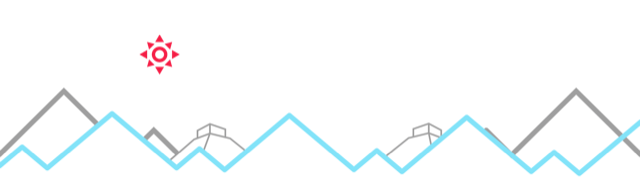
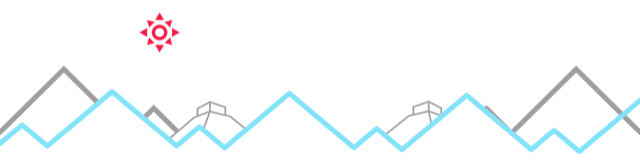
Renamed css folder to style; removed top space from mountain scene.

Changed region(s): [[0.0, 0.3916, 1.0, 0.9337], [0.2188, 0.0904, 0.2812, 0.3916]]

diff --git a/src/style/homeWelcomeScreen.scss b/src/style/homeWelcomeScreen.scss
@@ -6,27 +6,28 @@
   flex-direction: column;
   justify-content: center;
   align-items: center;
-  //   background-image: url("../images/Alacran_MountainScene-light-mode.png");
-  //   background-repeat: no-repeat;
-  //   background-size: 100%;
-  //   background-position: center center;
+    background-image: url("../images/Alacran_MountainScene-light-mode.png");
+    background-repeat: no-repeat;
+    background-size: 100%;
+    background-position: center center;
 
   .homeLogo {
     opacity: 0;
-    animation: fadeInAndDrop 1s ease-in both;
-    animation-delay: 1s;
+    animation: fadeInAndDrop 0.75s ease-in both;
+    animation-delay: 0.75s;
   }
 
   h1 {
     opacity: 0;
-    animation: fadeInAndDrop 1s ease-in both;
-    animation-delay: 2s;
+    animation: fadeInAndDrop 0.75s ease-in both;
+    animation-delay: 1.5s;
+    font-size: 5.5rem;
   }
 
   h3 {
     opacity: 0;
-    animation: fadeIn 1.5s ease-in both;
-    animation-delay: 3s;
+    animation: fadeIn 1.125s ease-in both;
+    animation-delay: 2.25s;
     letter-spacing: 0.2rem;
   }
 
@@ -35,7 +36,7 @@
     @extend .primaryButton;
     opacity: 0;
     animation: flashButton 2s ease-in both;
-    animation-delay: 4.5s;
+    animation-delay: 3.375s;
     animation-iteration-count: infinite;
   }
 }
@@ -71,5 +72,13 @@
   }
   100% {
     opacity: 0;
+  }
+}
+
+@media only screen and (max-width: 480px) {
+  .homeWelcomeScreenContainer {
+    h1 {
+      font-size: 3.0rem;
+    }
   }
 }

diff --git a/src/pages/index.js b/src/pages/index.js
@@ -4,7 +4,7 @@ import { StaticImage } from "gatsby-plugin-image"
 import Layout from "../components/layout"
 import Seo from "../components/seo"
 
-import "../css/global.scss"
+import "../style/global.scss"
 import HomeWelcomeScreen from "../components/homeWelcomeScreen"
 
 const IndexPage = () => (

diff --git a/src/components/homeWelcomeScreen.js b/src/components/homeWelcomeScreen.js
@@ -1,7 +1,7 @@
 import React from "react"
 import { StaticImage } from "gatsby-plugin-image"
 
-import "../css/homeWelcomeScreen.scss"
+import "../style/homeWelcomeScreen.scss"
 
 class HomeWelcomeScreen extends React.Component {
   handleClick() {

diff --git a/src/style/common.scss b/src/style/common.scss
@@ -1,8 +1,4 @@
-$techie-blue-color: #0fc7f3;
-$primary-blue-color: #0678bf;
-$salmon-color: #fa8072;
-$light-gray-color: #f2f2f2;
-$dark-gray-color: #3f3f40;
+@import "colors.scss";
 
 // Text And Image Box
 .textAndImageBox {

diff --git a/src/style/colors.scss b/src/style/colors.scss
@@ -1,0 +1,5 @@
+$techie-blue-color: #0fc7f3;
+$primary-blue-color: #0678bf;
+$salmon-color: #fa8072;
+$light-gray-color: #f2f2f2;
+$dark-gray-color: #3f3f40;

diff --git a/src/components/layout.css b/src/components/layout.css
@@ -1,4 +1,4 @@
-@import "../css/typography.css";
+@import "../style/typography.css";
 html {
   scroll-behavior: smooth;
   -ms-text-size-adjust: 100%;

diff --git a/src/style/global.scss b/src/style/global.scss
@@ -1,4 +1,5 @@
 @import "common.scss";
+@import "colors.scss";
 
 .contentBlockContainer {
   display: flex;

diff --git a/src/style/typography.css b/src/style/typography.css
@@ -2,3 +2,4 @@
 	font-family: "Nasalization";
 	src: url("../fonts/nasalization-rg.otf");
 }
+
